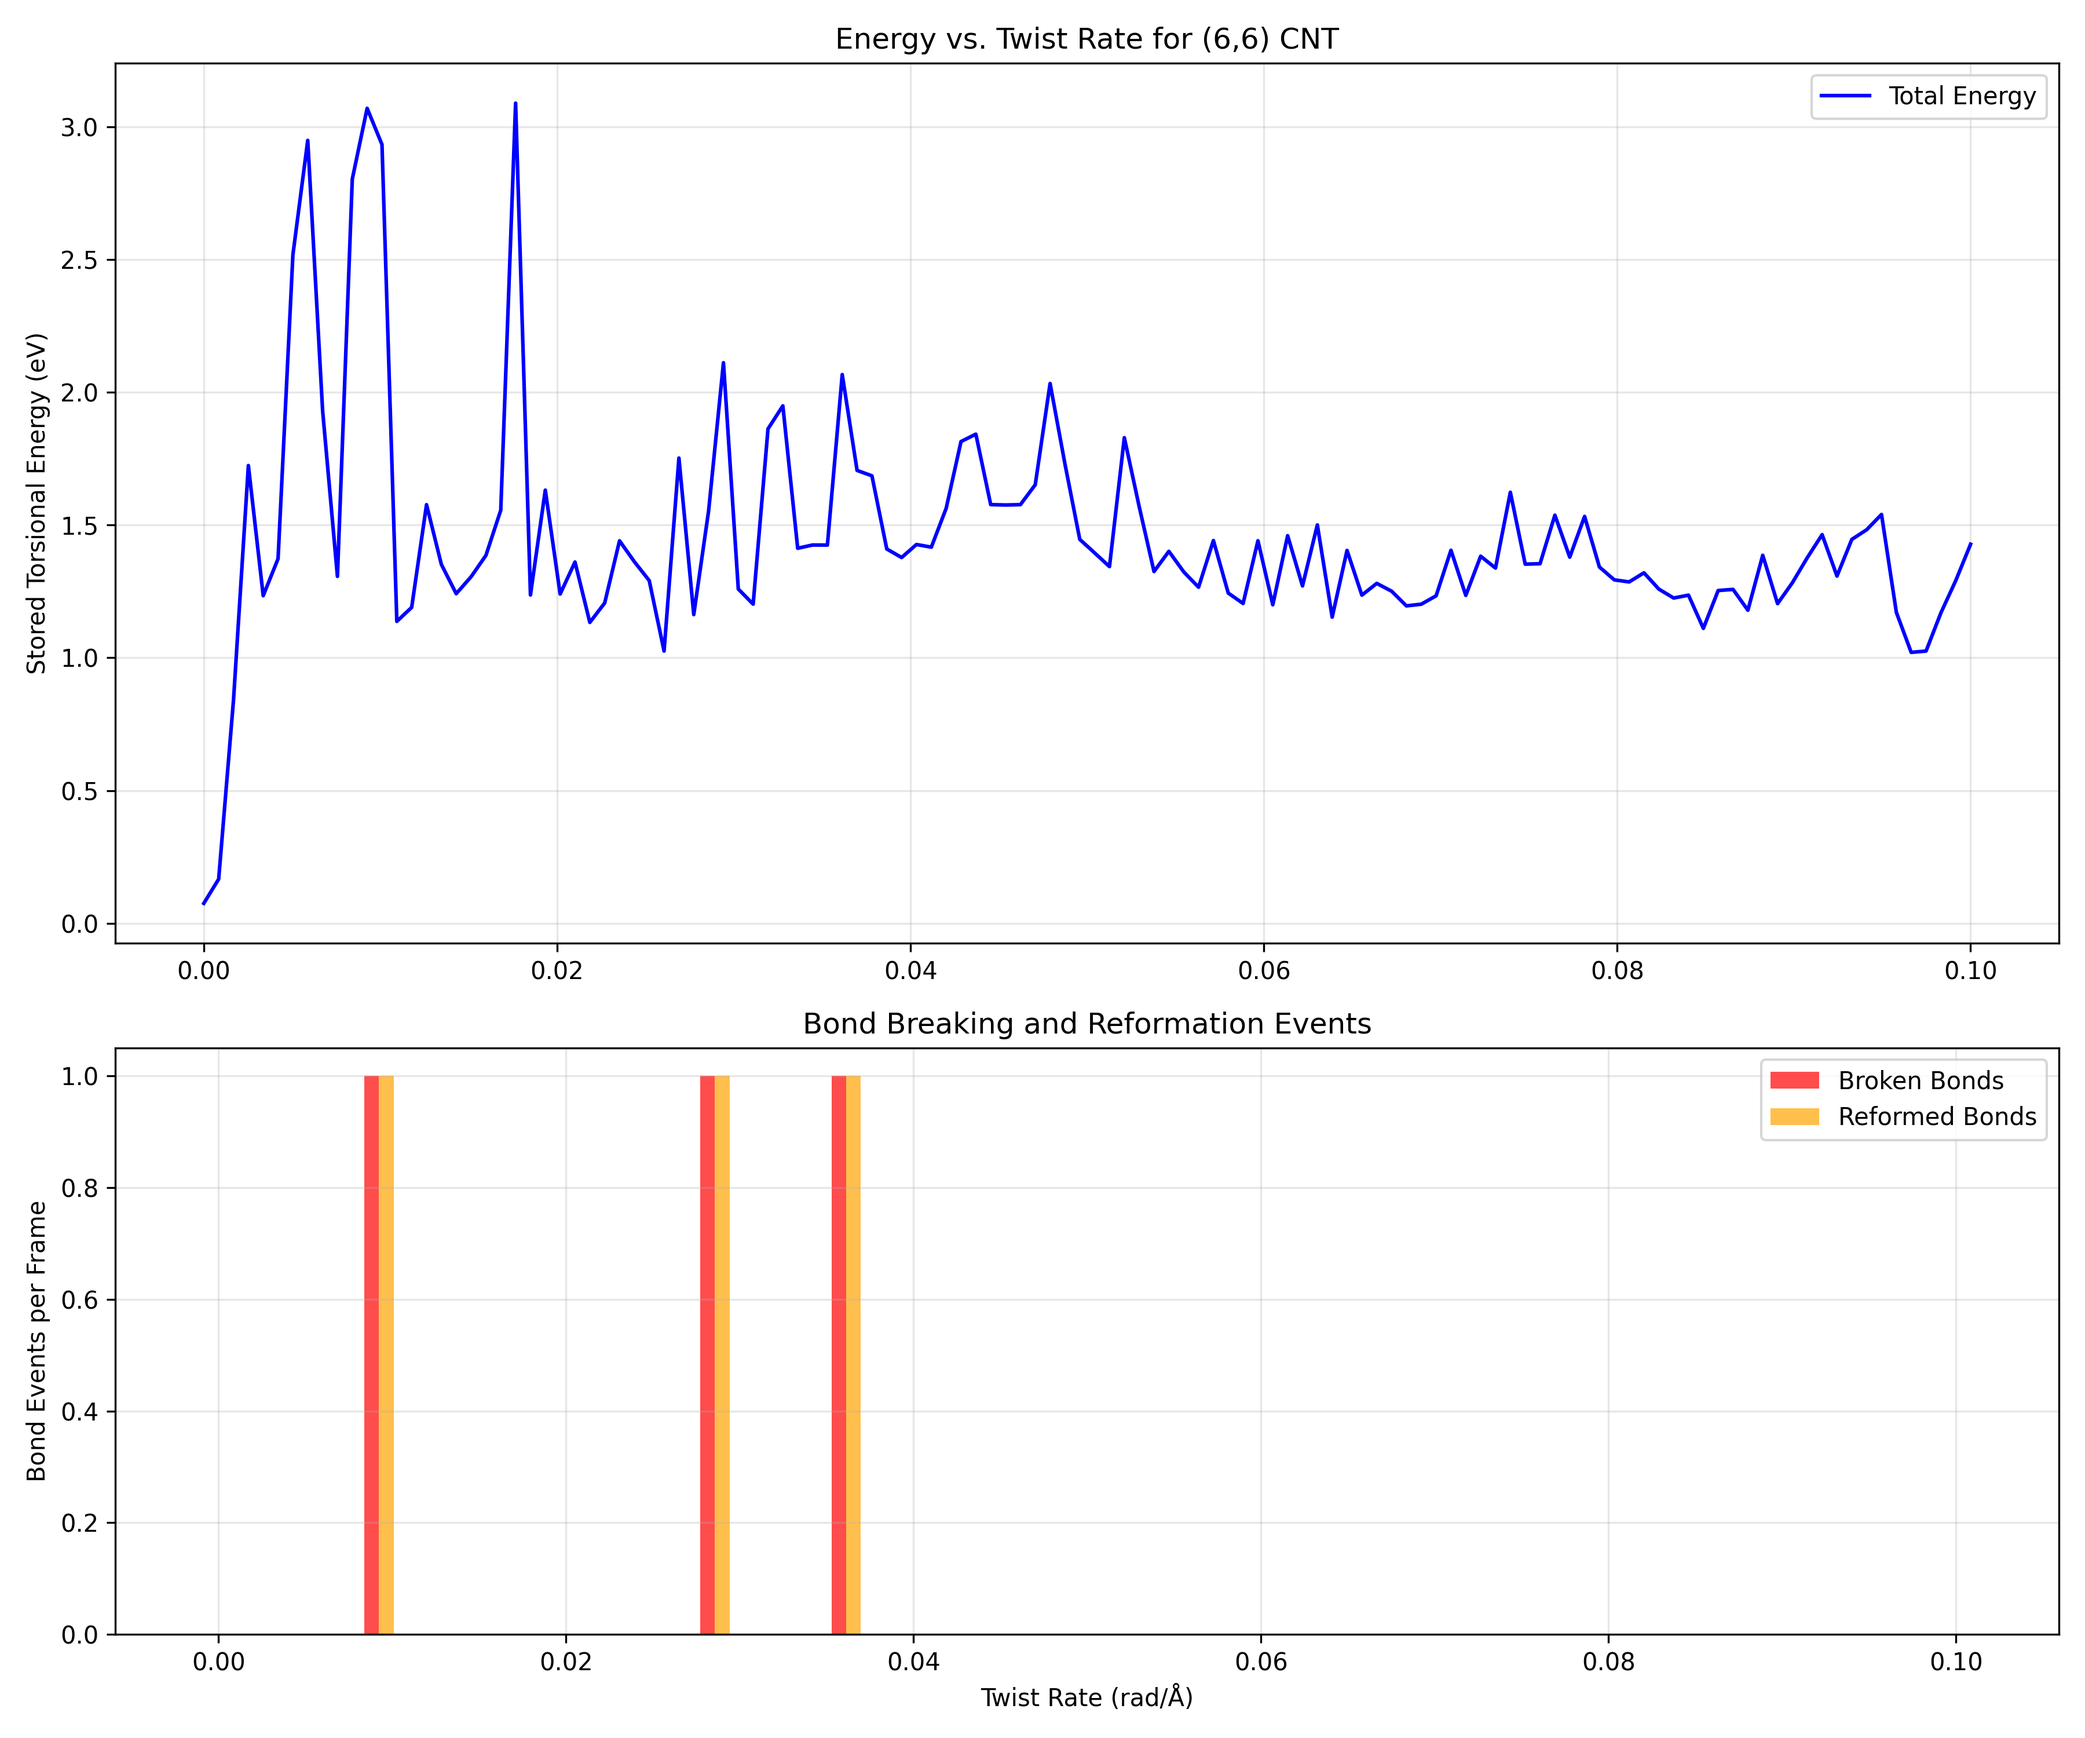
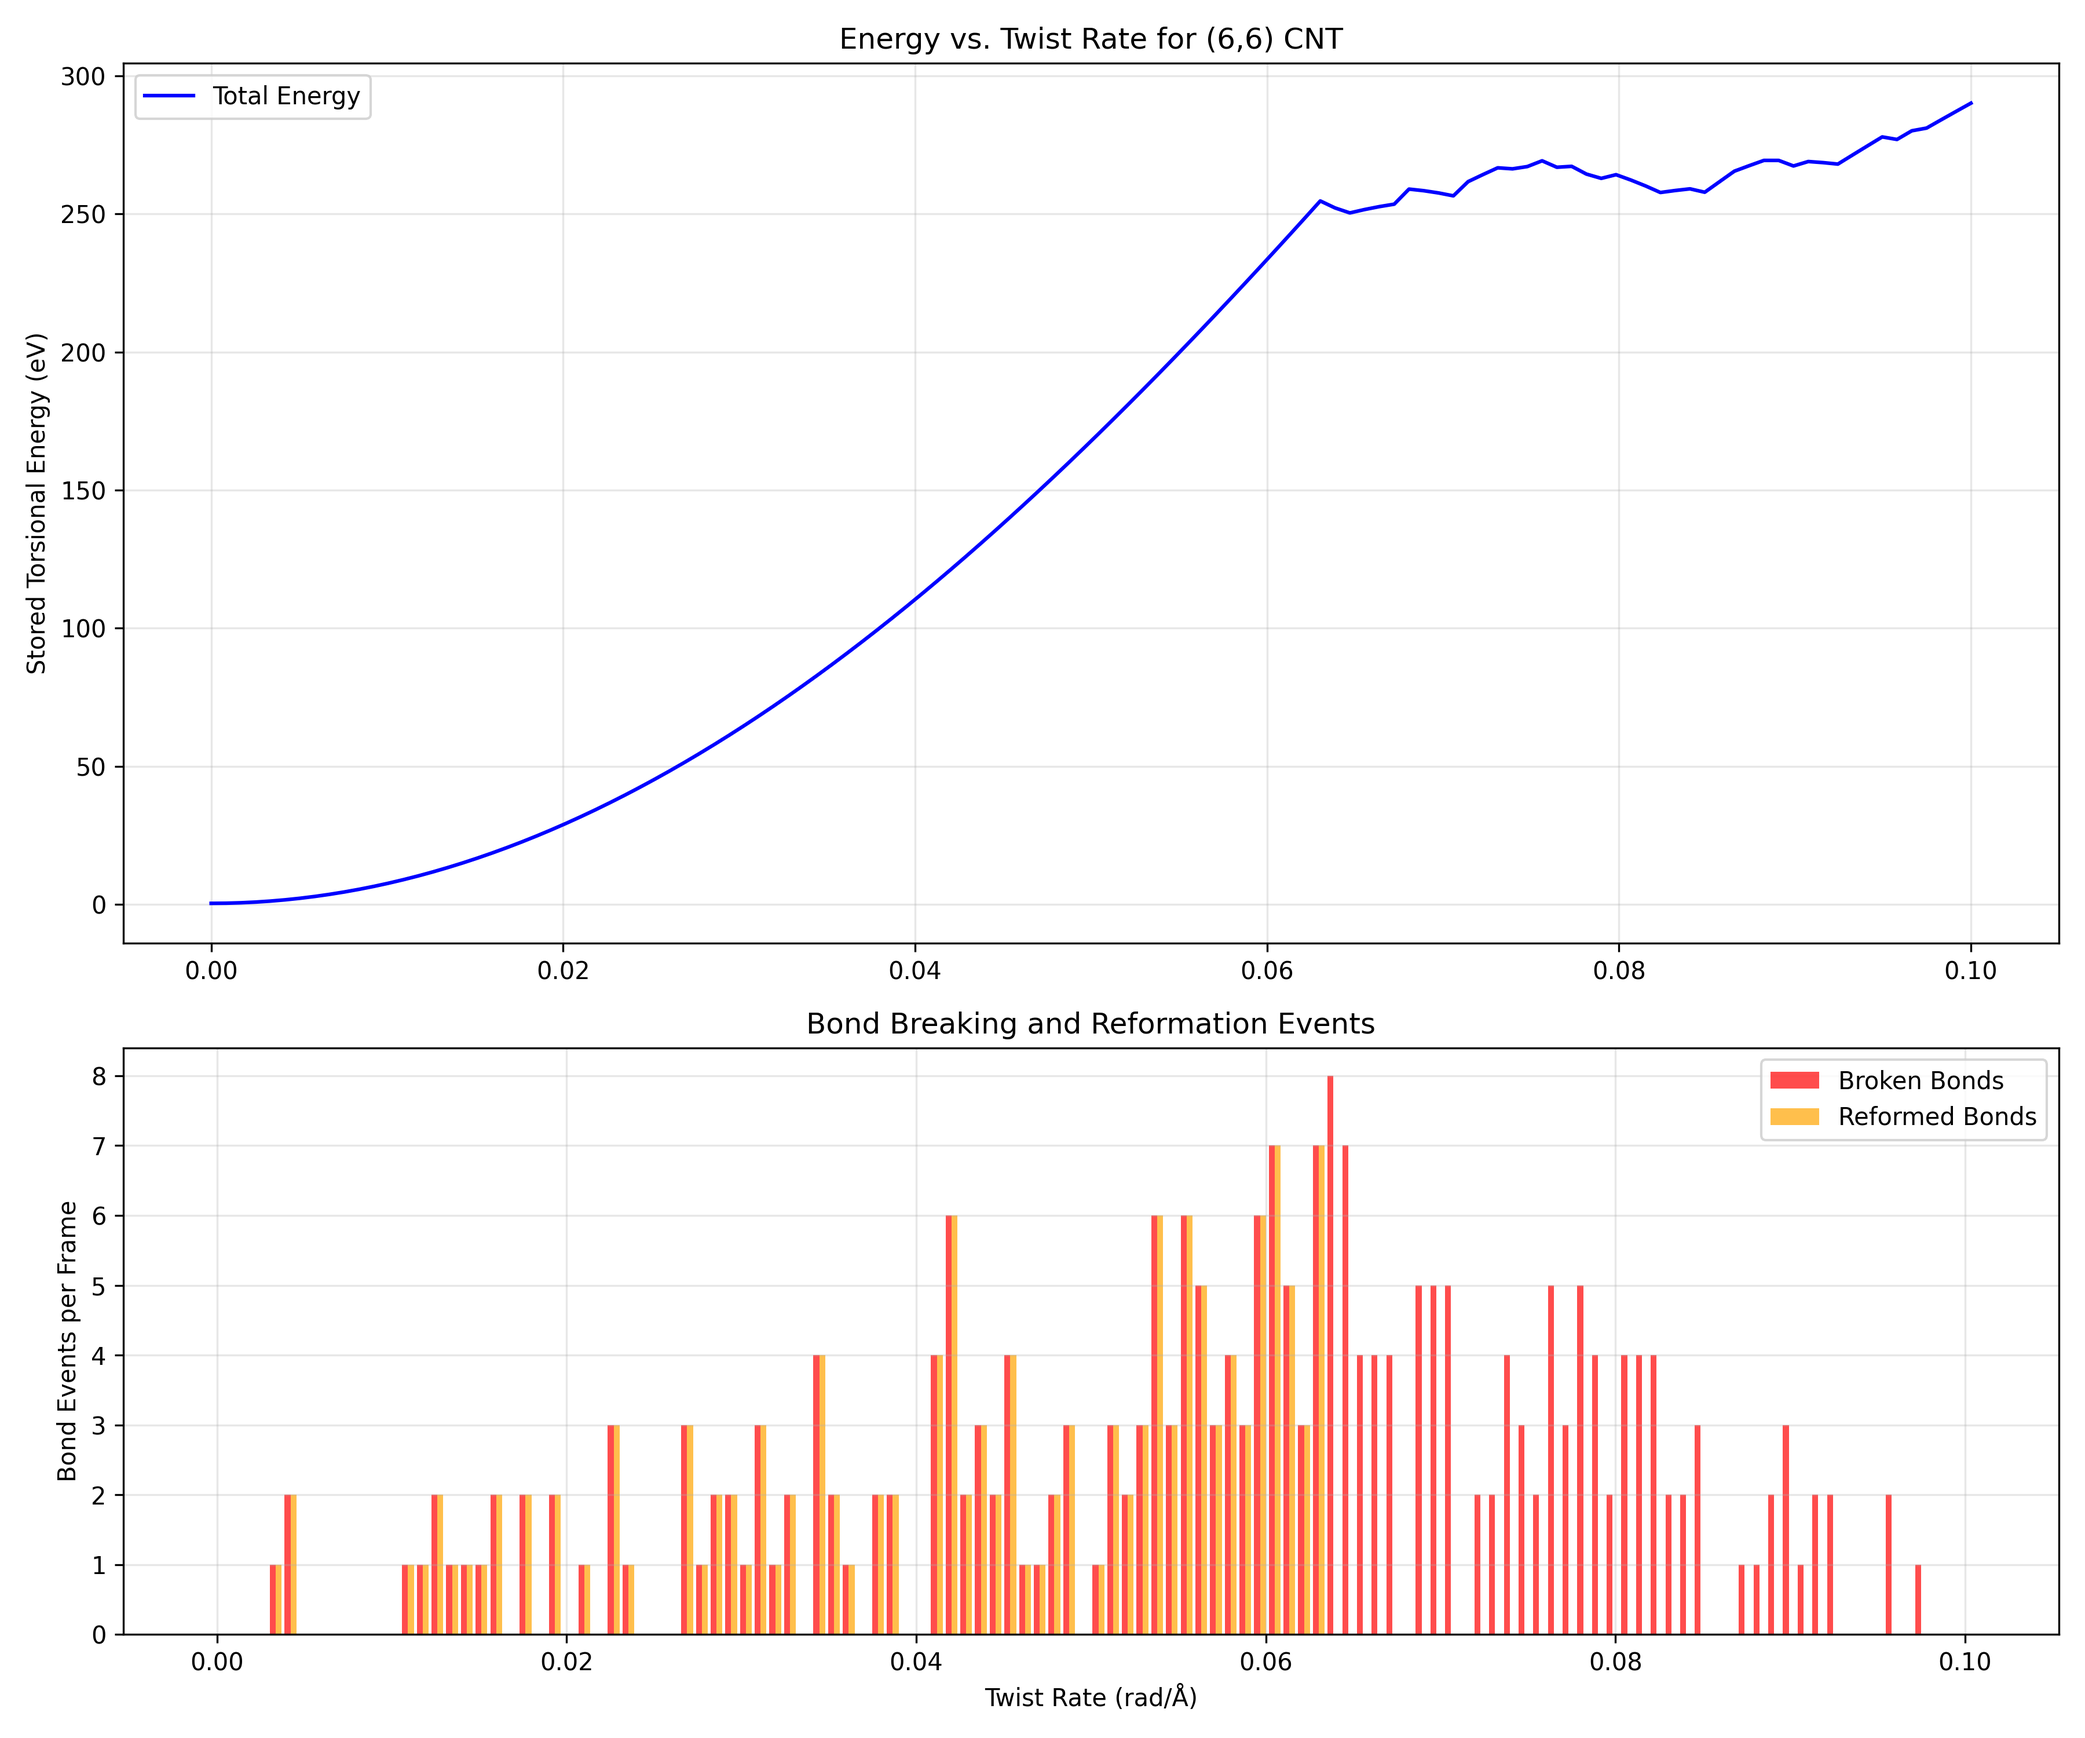
final

diff --git a/CNT_energy_storage/sym_2.py b/CNT_energy_storage/sym_2.py
@@ -4,7 +4,7 @@ from ase import Atoms
 import matplotlib.pyplot as plt
 from mpl_toolkits.mplot3d import Axes3D
 from matplotlib.animation import FuncAnimation
-from matplotlib.colors import Normalize
+from matplotlib.colors import Normalize, LinearSegmentedColormap
 from matplotlib.cm import coolwarm
 
 n = 6; m = 6; length = 10
@@ -12,10 +12,11 @@ D_e = 7.37; a = 2.625; r0 = 1.42
 num_frames = 120
 max_twist_rate = 0.1  # rad/Å
 twist_rates = np.linspace(0, max_twist_rate, num_frames)
-bond_break_distance = 1.75  # Å
+bond_break_distance = 1.9  # Å
 bond_reform_distance = 1.6   # Å
-bond_break_region = 0.2     # Å
+bond_break_region = 0.5     # Å
 cutoff = 2.0                # Å
+bond_break_exp_factor = 5.0   # Controls steepness of exponential breaking probability
 
 def morse_potential(r):
     return D_e * (1 - np.exp(-a * (r - r0)))**2
@@ -49,25 +50,40 @@ def compute_energy(cnt: Atoms, cutoff, previous_bonds=None):
         active_bonds = [{'indices': (i, j), 'energy': morse_potential(np.linalg.norm(positions[i] - positions[j]))}
                         for i in range(num_atoms) for j in range(i + 1, num_atoms)
                         if np.linalg.norm(positions[i] - positions[j]) < cutoff]
-        return sum(b['energy'] for b in active_bonds), active_bonds, active_bonds, {'broken': 0, 'reformed': 0, 'total': len(active_bonds)}
+        stats = {'broken': 0, 'reformed': 0, 'total': len(active_bonds), 'break_distances': []}
+        return sum(b['energy'] for b in active_bonds), active_bonds, active_bonds, stats
 
     surviving_bonds, viz_bonds = [], []
-    broken_bonds_count, reformed_bonds_count = 0, 0
+    broken_bond_distances = [] # Store distances of broken bonds
+    reformed_bonds_count = 0
     atom_bond_counts = np.zeros(num_atoms, dtype=int)
     
     surviving_indices = set()
     for bond in previous_bonds:
         i, j = bond['indices']
         r = np.linalg.norm(positions[i] - positions[j])
-        is_stretched = r > r0 and r > (bond_break_distance - bond_break_region)
-        breaks = is_stretched and (r >= bond_break_distance or np.random.random() < (r - (bond_break_distance - bond_break_region)) / bond_break_region)
+        
+        breaks = False
+        start_break_region = bond_break_distance - bond_break_region
+        
+        # Check for bond breaking
+        if r > start_break_region and r > r0: # Bond must be stretched into the breaking region
+            if r >= bond_break_distance:
+                breaks = True # Guaranteed break beyond the distance
+            else:
+                # Probabilistic breaking within the [start_break_region, bond_break_distance]
+                x = (r - start_break_region) / bond_break_region
+                prob_break = (np.exp(bond_break_exp_factor * x) - 1) / (np.exp(bond_break_exp_factor) - 1)
+                
+                if np.random.random() < prob_break:
+                    breaks = True
         
         if not breaks:
             surviving_bonds.append({'indices': (i, j), 'energy': morse_potential(r)})
             atom_bond_counts[i] += 1; atom_bond_counts[j] += 1
             surviving_indices.add(tuple(sorted((i,j))))
         else:
-            broken_bonds_count += 1
+            broken_bond_distances.append(r) # Record the distance at break
             viz_bonds.append({'indices': (i, j), 'status': 'broken'})
 
     potential_new = sorted([
@@ -89,13 +105,19 @@ def compute_energy(cnt: Atoms, cutoff, previous_bonds=None):
 
     active_bonds = surviving_bonds + reformed_bonds
     total_energy = sum(b['energy'] for b in active_bonds)
-    bond_stats = {'broken': broken_bonds_count, 'reformed': reformed_bonds_count, 'total': len(active_bonds)}
+    bond_stats = {
+        'broken': len(broken_bond_distances),
+        'reformed': reformed_bonds_count,
+        'total': len(active_bonds),
+        'break_distances': broken_bond_distances # Return the list of distances
+    }
     
     return total_energy, active_bonds, active_bonds + viz_bonds, bond_stats
 
 if __name__ == "__main__":
     base_cnt = build_cnt(n=n, m=m, length=length)
     animation_frames, total_energies, bond_counts, broken_events, reformed_events = [], [], [], [], []
+    all_break_distances = [] # List to collect all break distances over the simulation
     previous_bonds = None
 
     for i, rate in enumerate(twist_rates):
@@ -107,6 +129,8 @@ if __name__ == "__main__":
         bond_counts.append(stats['total'])
         broken_events.append(stats['broken'])
         reformed_events.append(stats['reformed'])
+        if stats['break_distances']:
+            all_break_distances.extend(stats['break_distances']) # Collect distances from this frame
         animation_frames.append({'atoms': cnt_twisted, 'bonds': drawable_bonds, 'stats': stats})
         previous_bonds = active_bonds
         
@@ -132,6 +156,12 @@ if __name__ == "__main__":
     bond_plots = [ax_anim.plot([], [], [], lw=1.5)[0] for _ in range(max_bonds_to_plot)]
     norm = Normalize(vmin=0, vmax=ENERGY_AT_BREAK)
 
+    # Create a custom colormap that goes from blue to red without passing through white
+    cdict = {'red':   ((0.0, 0.0, 0.0), (1.0, 1.0, 1.0)),
+             'green': ((0.0, 0.0, 0.0), (1.0, 0.0, 0.0)),
+             'blue':  ((0.0, 1.0, 1.0), (1.0, 0.0, 0.0))}
+    blue_red_cmap = LinearSegmentedColormap('BlueRed', cdict)
+
     def update(frame):
         data = animation_frames[frame]
         positions = data['atoms'].get_positions()
@@ -145,7 +175,7 @@ if __name__ == "__main__":
                 
                 status = bond.get('status', 'active')
                 if status == 'active':
-                    line.set_color(coolwarm(norm(bond['energy']))); line.set_linestyle('-'); line.set_linewidth(1.5); line.set_alpha(1.0)
+                    line.set_color(blue_red_cmap(norm(bond['energy']))); line.set_linestyle('-'); line.set_linewidth(1.5); line.set_alpha(1.0)
                 elif status == 'broken':
                     line.set_color('gray'); line.set_linestyle('-'); line.set_linewidth(0.5); line.set_alpha(0.3)
                 elif status == 'potential':
@@ -162,4 +192,41 @@ if __name__ == "__main__":
         ax_anim.set_title(f"Twist Rate: {twist_rates[frame]:.4f} rad/Å\nBonds: {stats['total']}, Broken: {stats['broken']}, Reformed: {stats['reformed']}")
 
     ani = FuncAnimation(fig_anim, update, frames=num_frames, interval=30, blit=False)
-    plt.show()
+    plt.show() # Animation window is blocking. Code below runs after it's closed.
+
+    # --- Final Plot: Bond Break Distribution ---
+    if all_break_distances:
+        fig, ax1 = plt.subplots(figsize=(12, 7))
+        
+        # Plot Histogram of where bonds actually broke
+        ax1.hist(all_break_distances, bins=25, color='cornflowerblue', label='Actual Bond Break Events')
+        ax1.set_xlabel('Bond Distance (Å)', fontsize=12)
+        ax1.set_ylabel('Number of Bonds Broken', color='cornflowerblue', fontsize=12)
+        ax1.tick_params(axis='y', labelcolor='cornflowerblue')
+        ax1.grid(True, linestyle='--', alpha=0.6)
+
+        # Create a second y-axis to overlay the probability function
+        ax2 = ax1.twinx()
+        
+        # Plot the theoretical probability function
+        start_break_region = bond_break_distance - bond_break_region
+        x_dist = np.linspace(start_break_region, bond_break_distance, 200)
+        x_normalized = (x_dist - start_break_region) / bond_break_region
+        y_prob = (np.exp(bond_break_exp_factor * x_normalized) - 1) / (np.exp(bond_break_exp_factor) - 1)
+        
+        ax2.plot(x_dist, y_prob, color='crimson', linestyle='--', linewidth=2.5, label='Theoretical Break Probability')
+        ax2.set_ylabel('Probability of Breaking', color='crimson', fontsize=12)
+        ax2.tick_params(axis='y', labelcolor='crimson')
+        ax2.set_ylim(0, 1.05)
+
+        # Final plot styling
+        plt.title('Distribution of Bond Breaking Events vs. Theoretical Probability', fontsize=14)
+        fig.tight_layout()
+        
+        # Combine legends from both axes
+        lines, labels = ax1.get_legend_handles_labels()
+        lines2, labels2 = ax2.get_legend_handles_labels()
+        ax2.legend(lines + lines2, labels + labels2, loc='upper left')
+
+        plt.savefig("CNT_energy_storage/output/bond_break_distribution.png", dpi=300)
+        plt.show()
